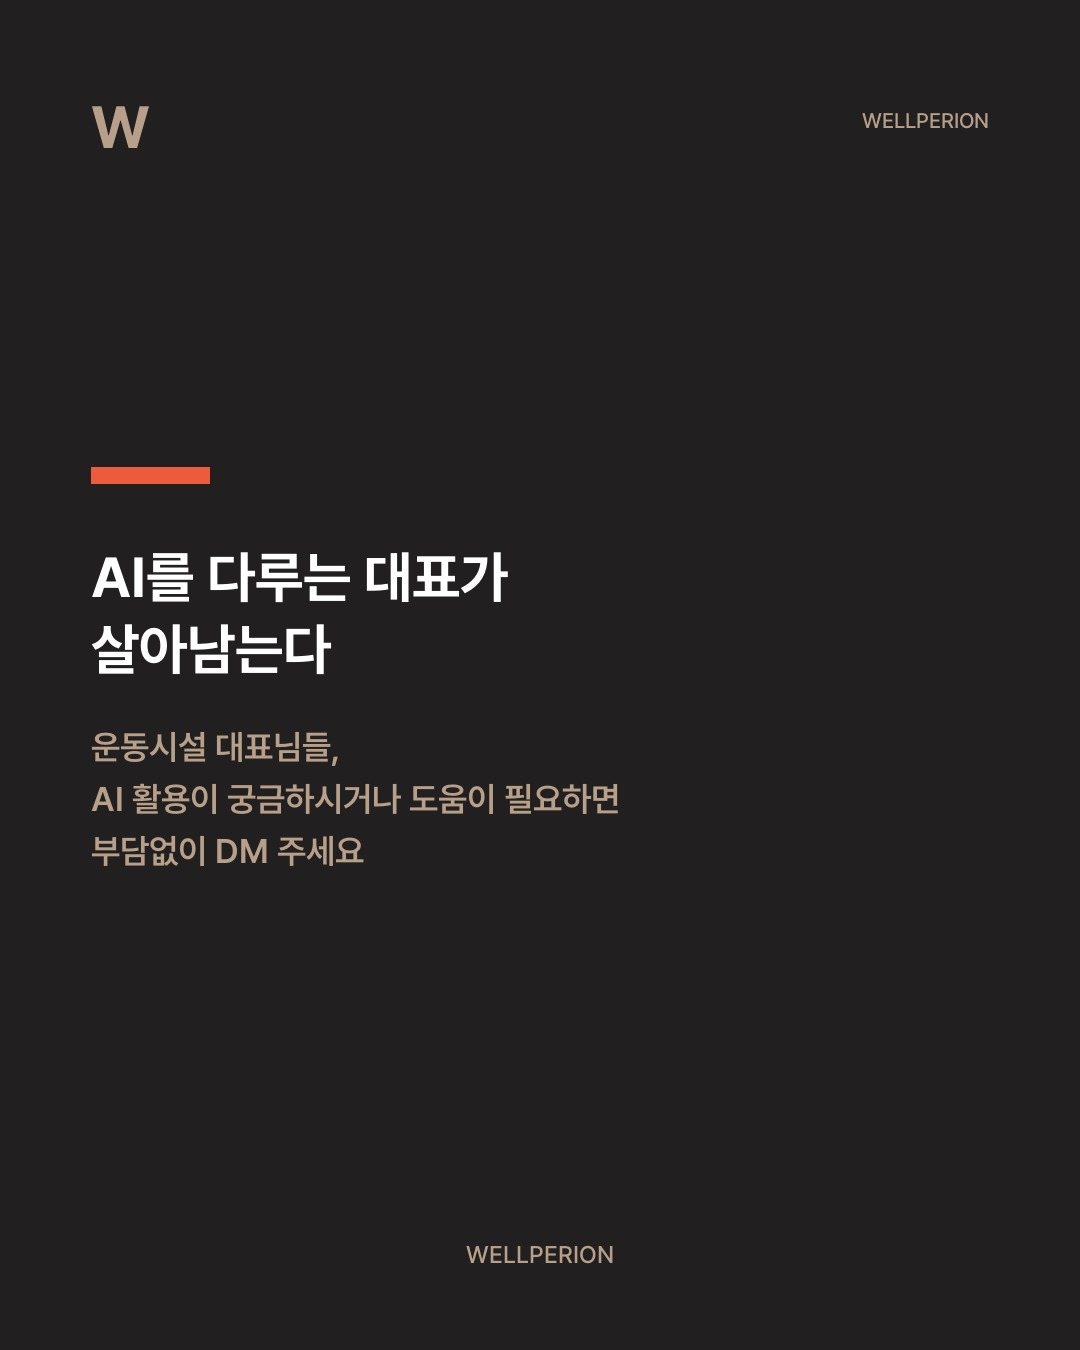
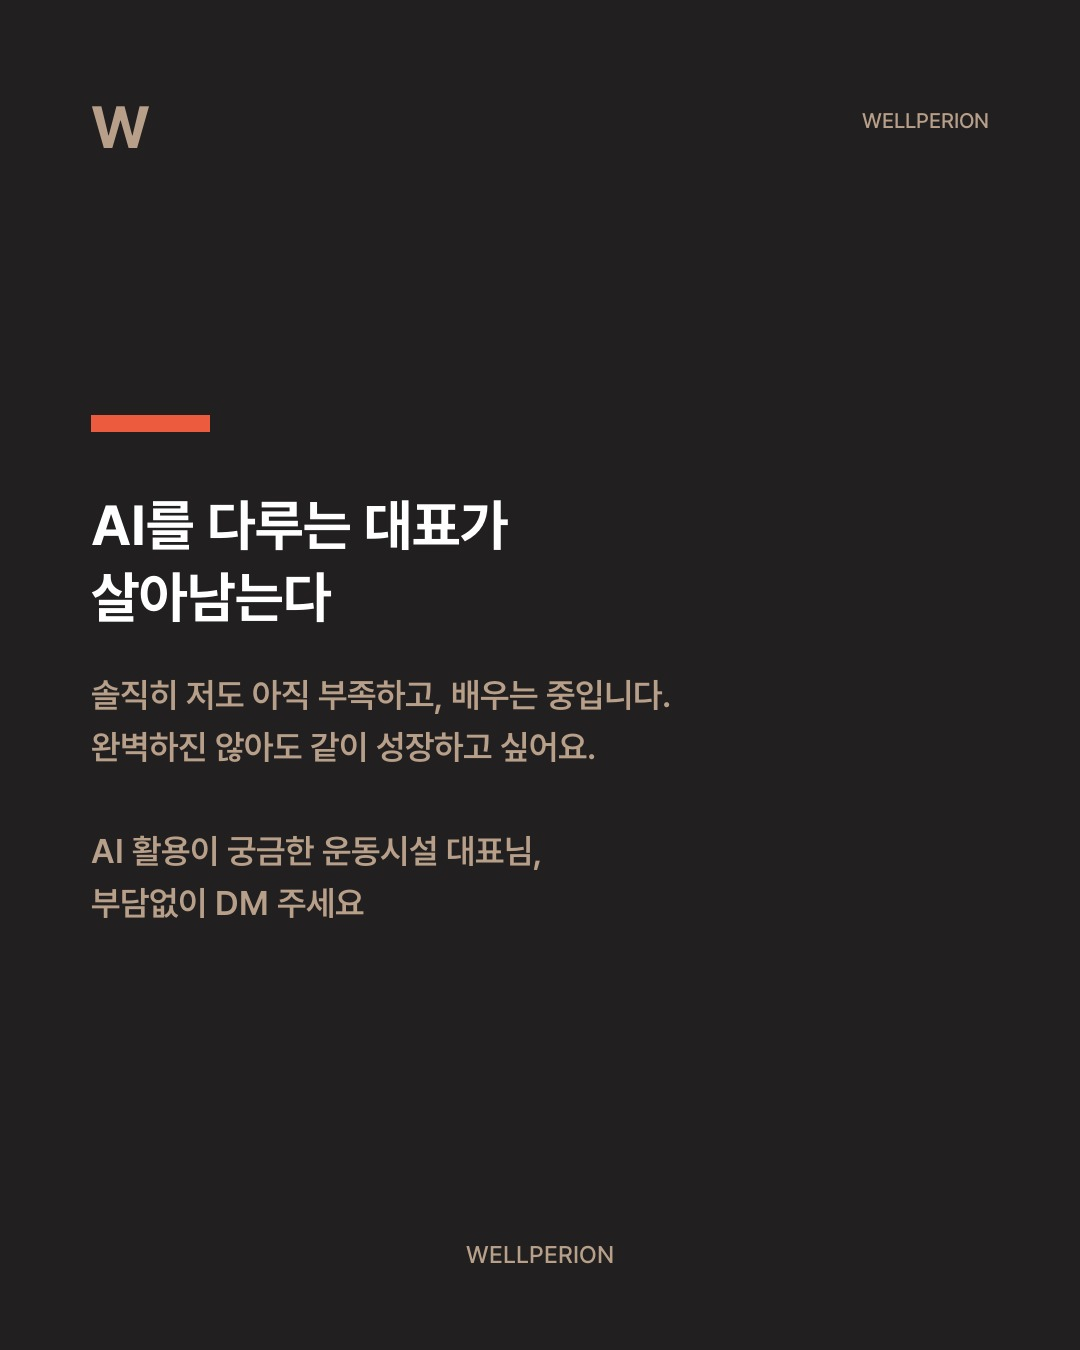
feat(cmo): 왜AI 마지막장에 동반성장 메시지 추가('저도 아직 부족하지만 같이 성장') (GM 지시)

Changed region(s): [[0.0611, 0.28, 0.6111, 0.6844]]

diff --git a/instagram/260530_왜AI_스포츠클럽/build_slides.py b/instagram/260530_왜AI_스포츠클럽/build_slides.py
@@ -82,7 +82,7 @@ def main() -> None:
         output=slogan_out,
         brand_key="main",
         kor_title="AI를 다루는 대표가\n살아남는다",
-        body="운동시설 대표님들,\nAI 활용이 궁금하시거나 도움이 필요하면\n부담없이 DM 주세요",
+        body="솔직히 저도 아직 부족하고, 배우는 중입니다.\n완벽하진 않아도 같이 성장하고 싶어요.\n\nAI 활용이 궁금한 운동시설 대표님,\n부담없이 DM 주세요",
     )
     print(f"[OK] post_5.jpg - slogan card ({r['size_kb']}KB)")
     paths.append(slogan_out)
